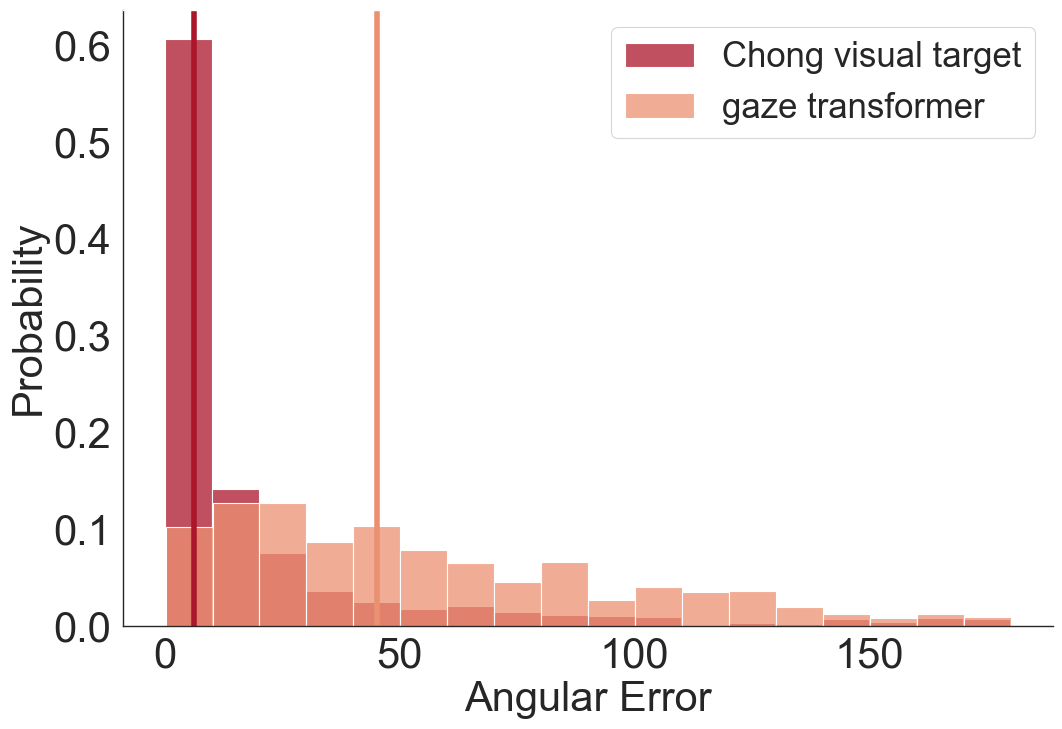
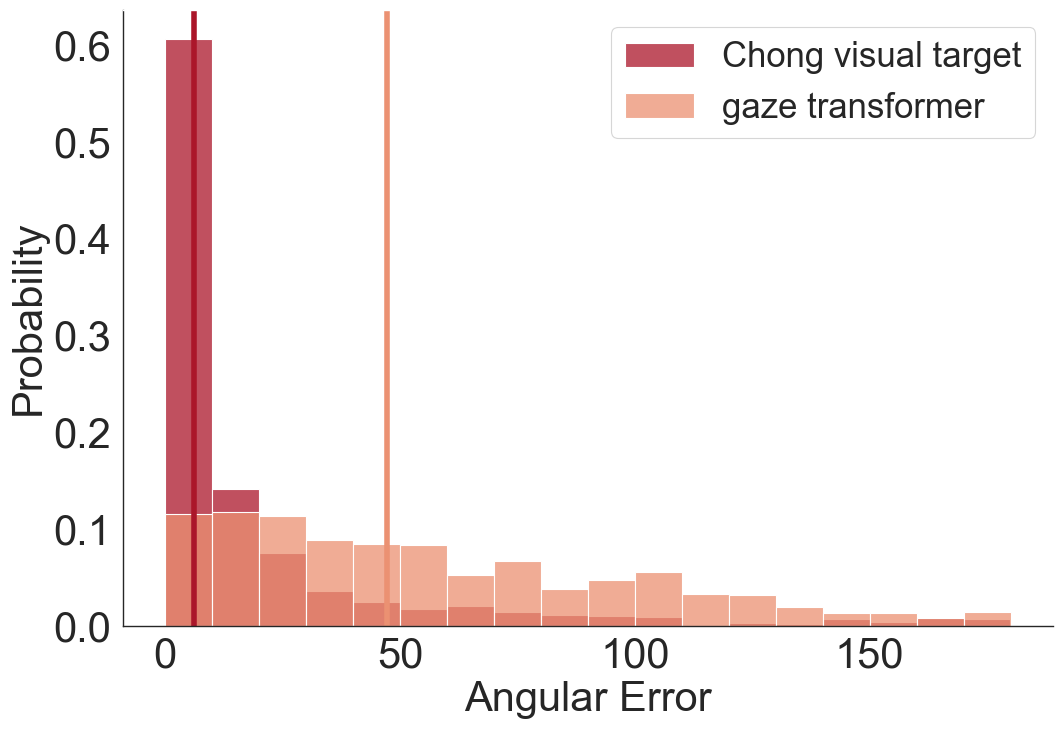
error update

diff --git a/train_model_imageclips.py b/train_model_imageclips.py
@@ -46,31 +46,32 @@ def train(device, model, train_img_path, train_bbx_path, test_img_path, test_bbx
             gaze_maps[gaze_maps>0] = 1
             gaze_maps[gaze_maps==1] = 1-.05 #label smoothing
             gaze_maps[gaze_maps==0] = .05
+            gaze_maps = gaussian_smooth(gaze_maps.detach(), 21, 5).to(device)
 
             # loss between probabilty maps
-            map_loss = criterion(out_map.float(), gaze_maps.float())
+            loss = criterion(out_map.float(), gaze_maps.float())
 
-            # angle loss
-            vec1 = (img_anno['gaze_x'] - img_anno['eye_x'], img_anno['gaze_y'] - img_anno['eye_y'])
-            gaze_pred = [unravel_index(out_map.cpu()[i, 0, ::].argmax(), out_map.cpu()[i, 0, ::].shape) for i in
-                         range(b_size)]
-            gaze_pred = np.array(gaze_pred) / out_map[0, 0, ::].shape[0]
-            vec2 = (torch.from_numpy(gaze_pred[:, 1]) - img_anno['eye_x'],
-                    torch.from_numpy(gaze_pred[:, 0]) - img_anno['eye_y'])
-            ang_loss = 0
-            for i in range(b_size):
-                v1, v2 = [vec1[0][i] * 1000, vec1[1][i] * 1000], [vec2[0][i] * 1000, vec2[1][i] * 1000]
-                unit_vector_1 = v1 / np.linalg.norm(v1)
-                unit_vector_2 = v2 / np.linalg.norm(v2)
-                dot_product = np.dot(unit_vector_1, unit_vector_2)
-                angle = np.arccos(dot_product) * 180 / np.pi
-                if torch.isnan(torch.tensor(angle)) == False:
-                    ang_loss += angle  # angle in degrees
-            ang_loss /= b_size
-            if torch.isnan(torch.tensor(ang_loss)):
-                print("ang_loss nan")
+            # # angle loss
+            # vec1 = (img_anno['gaze_x'] - img_anno['eye_x'], img_anno['gaze_y'] - img_anno['eye_y'])
+            # gaze_pred = [unravel_index(out_map.cpu()[i, 0, ::].argmax(), out_map.cpu()[i, 0, ::].shape) for i in
+            #              range(b_size)]
+            # gaze_pred = np.array(gaze_pred) / out_map[0, 0, ::].shape[0]
+            # vec2 = (torch.from_numpy(gaze_pred[:, 1]) - img_anno['eye_x'],
+            #         torch.from_numpy(gaze_pred[:, 0]) - img_anno['eye_y'])
+            # ang_loss = 0
+            # for i in range(b_size):
+            #     v1, v2 = [vec1[0][i] * 1000, vec1[1][i] * 1000], [vec2[0][i] * 1000, vec2[1][i] * 1000]
+            #     unit_vector_1 = v1 / np.linalg.norm(v1)
+            #     unit_vector_2 = v2 / np.linalg.norm(v2)
+            #     dot_product = np.dot(unit_vector_1, unit_vector_2)
+            #     angle = np.arccos(dot_product) * 180 / np.pi
+            #     if torch.isnan(torch.tensor(angle)) == False:
+            #         ang_loss += angle  # angle in degrees
+            # ang_loss /= b_size
+            # if torch.isnan(torch.tensor(ang_loss)):
+            #     print("ang_loss nan")
             # loss
-            loss = lbd * map_loss + (1 - lbd) * ang_loss * .01
+            # loss = lbd * map_loss + (1 - lbd) * ang_loss * .01
 
             loss.backward()
             opt.step()
@@ -86,7 +87,7 @@ def train(device, model, train_img_path, train_bbx_path, test_img_path, test_bbx
             # check with train images
             try:
                 for i in range(5):
-                    visualize_result(images_name, flips, g_crops, gt_map, out_map, idx=i)
+                    visualize_result(images_name, flips, g_crops, gaze_maps, out_map, idx=i)
                     plt.savefig('outputs/viTtrain_epoch{}_plot{}.jpg'.format(e, i + 1))
                     plt.close('all')
             except:
@@ -106,29 +107,30 @@ def train(device, model, train_img_path, train_bbx_path, test_img_path, test_bbx
 
                 test_b_size = images.shape[0]
 
-                gt_map = gaussian_smooth(gaze_maps.detach(), 21, 5)
-                gt_map = gt_map + .05  # smooth
-                gt_map_sums = gt_map.view(test_b_size, 1, -1).sum(dim=2).unsqueeze(1)  # normalize sum up to 1
-                gt_map = (gt_map.view(test_b_size, 1, -1) / gt_map_sums).view(test_b_size, 1, 64, 64)
-                gt_map = gt_map.to(device)
-                out_map = model(images, h_crops, b_crops, masks)  # model prediction of gaze map
+                gaze_maps[gaze_maps > 0] = 1
+                gaze_maps[gaze_maps == 1] = 1 - .05  # label smoothing
+                gaze_maps[gaze_maps == 0] = .05
+                gaze_maps = gaussian_smooth(gaze_maps.detach(), 21, 5).to(device)
 
-                map_loss = criterion(out_map.float(), gt_map.float())
-                vec1 = (img_anno['gaze_x'] - img_anno['eye_x'], img_anno['gaze_y'] - img_anno['eye_y'])
-                gaze_pred = [unravel_index(out_map.cpu()[i, 0, ::].argmax(), out_map.cpu()[i, 0, ::].shape) for i in
-                             range(test_b_size)]
-                gaze_pred = np.array(gaze_pred) / out_map[0, 0, ::].shape[0]
-                vec2 = (torch.from_numpy(gaze_pred[:, 0]) - img_anno['eye_x'],
-                        torch.from_numpy(gaze_pred[:, 1]) - img_anno['eye_y'])
-                ang_loss = 0
-                for i in range(test_b_size):
-                    v1, v2 = [vec1[0][i] * 1000, vec1[1][i] * 1000], [vec2[0][i] * 1000, vec2[1][i] * 1000]
-                    unit_vector_1 = v1 / np.linalg.norm(v1)
-                    unit_vector_2 = v2 / np.linalg.norm(v2)
-                    dot_product = np.dot(unit_vector_1, unit_vector_2)
-                    ang_loss += (np.arccos(dot_product) * 180 / np.pi)  # angle in degrees
-                ang_loss /= test_b_size
-                test_loss = lbd * map_loss + (1 - lbd) * ang_loss * .00001
+                # loss between probabilty maps
+                test_loss = criterion(out_map.float(), gaze_maps.float())
+
+                # map_loss = criterion(out_map.float(), gaze_maps.float())
+                # vec1 = (img_anno['gaze_x'] - img_anno['eye_x'], img_anno['gaze_y'] - img_anno['eye_y'])
+                # gaze_pred = [unravel_index(out_map.cpu()[i, 0, ::].argmax(), out_map.cpu()[i, 0, ::].shape) for i in
+                #              range(test_b_size)]
+                # gaze_pred = np.array(gaze_pred) / out_map[0, 0, ::].shape[0]
+                # vec2 = (torch.from_numpy(gaze_pred[:, 0]) - img_anno['eye_x'],
+                #         torch.from_numpy(gaze_pred[:, 1]) - img_anno['eye_y'])
+                # ang_loss = 0
+                # for i in range(test_b_size):
+                #     v1, v2 = [vec1[0][i] * 1000, vec1[1][i] * 1000], [vec2[0][i] * 1000, vec2[1][i] * 1000]
+                #     unit_vector_1 = v1 / np.linalg.norm(v1)
+                #     unit_vector_2 = v2 / np.linalg.norm(v2)
+                #     dot_product = np.dot(unit_vector_1, unit_vector_2)
+                #     ang_loss += (np.arccos(dot_product) * 180 / np.pi)  # angle in degrees
+                # ang_loss /= test_b_size
+                # test_loss = lbd * map_loss + (1 - lbd) * ang_loss * .00001
 
                 PATH = "models/viTmodel_epoch{}.pt".format(e)
                 torch.save({
@@ -141,7 +143,7 @@ def train(device, model, train_img_path, train_bbx_path, test_img_path, test_bbx
 
                 try:
                     for i in range(5):
-                        visualize_result(images_name, flips, g_crops, gt_map, out_map, idx=i)
+                        visualize_result(images_name, flips, g_crops, gaze_maps, out_map, idx=i)
                         plt.savefig('outputs/viTtest_epoch{}_plot{}.jpg'.format(e, i + 1))
                         plt.close('all')
                 except:

diff --git a/main.py b/main.py
@@ -47,8 +47,8 @@ def main():
     lr = args.lr * args.b_size / 128
     beta1 = .9
     opt = optim.Adam(model.parameters(), lr=lr, betas=(beta1, .999))
-    # criterion = nn.MSELoss()
-    criterion = nn.BCELoss(reduction='mean')
+    criterion = nn.MSELoss()
+    # criterion = nn.BCELoss(reduction='mean')
 
     if args.resume:
         checkpoint = torch.load('models/viTmodel_epoch{}.pt'.format(args.e_start), map_location='cpu')

diff --git a/main_imageclips.py b/main_imageclips.py
@@ -102,8 +102,8 @@ lr = .0001
 beta1 = .9
 lmbda = .0001
 opt = optim.Adam(model.parameters(), lr=lr, betas = (beta1, .999))
-criterion = nn.BCELoss(reduction='mean')
-# criterion = nn.MSELoss()
+# criterion = nn.BCELoss(reduction='mean')
+criterion = nn.MSELoss()
 e_start = 0
 
 # checkpoint = torch.load('models/model_epoch{}.pt'.format(e_start), map_location='cpu')

diff --git a/evaluate_models/fine_tuning_resnet_main.py b/evaluate_models/fine_tuning_resnet_main.py
@@ -4,7 +4,7 @@ from evaluate_models.utils_fine_tuning import *
 from functions.data_ana_vis import *
 
 basepath = '/Users/nicolehan/Documents/Research/gazetransformer'
-epoch=10
+epoch=8
 model = Gaze_Transformer()
 checkpoint = torch.load('{}/models_vit_small/viTmodel_epoch{}.pt'.format(basepath,epoch), map_location='cpu')
 checkpoint['train_loss']
